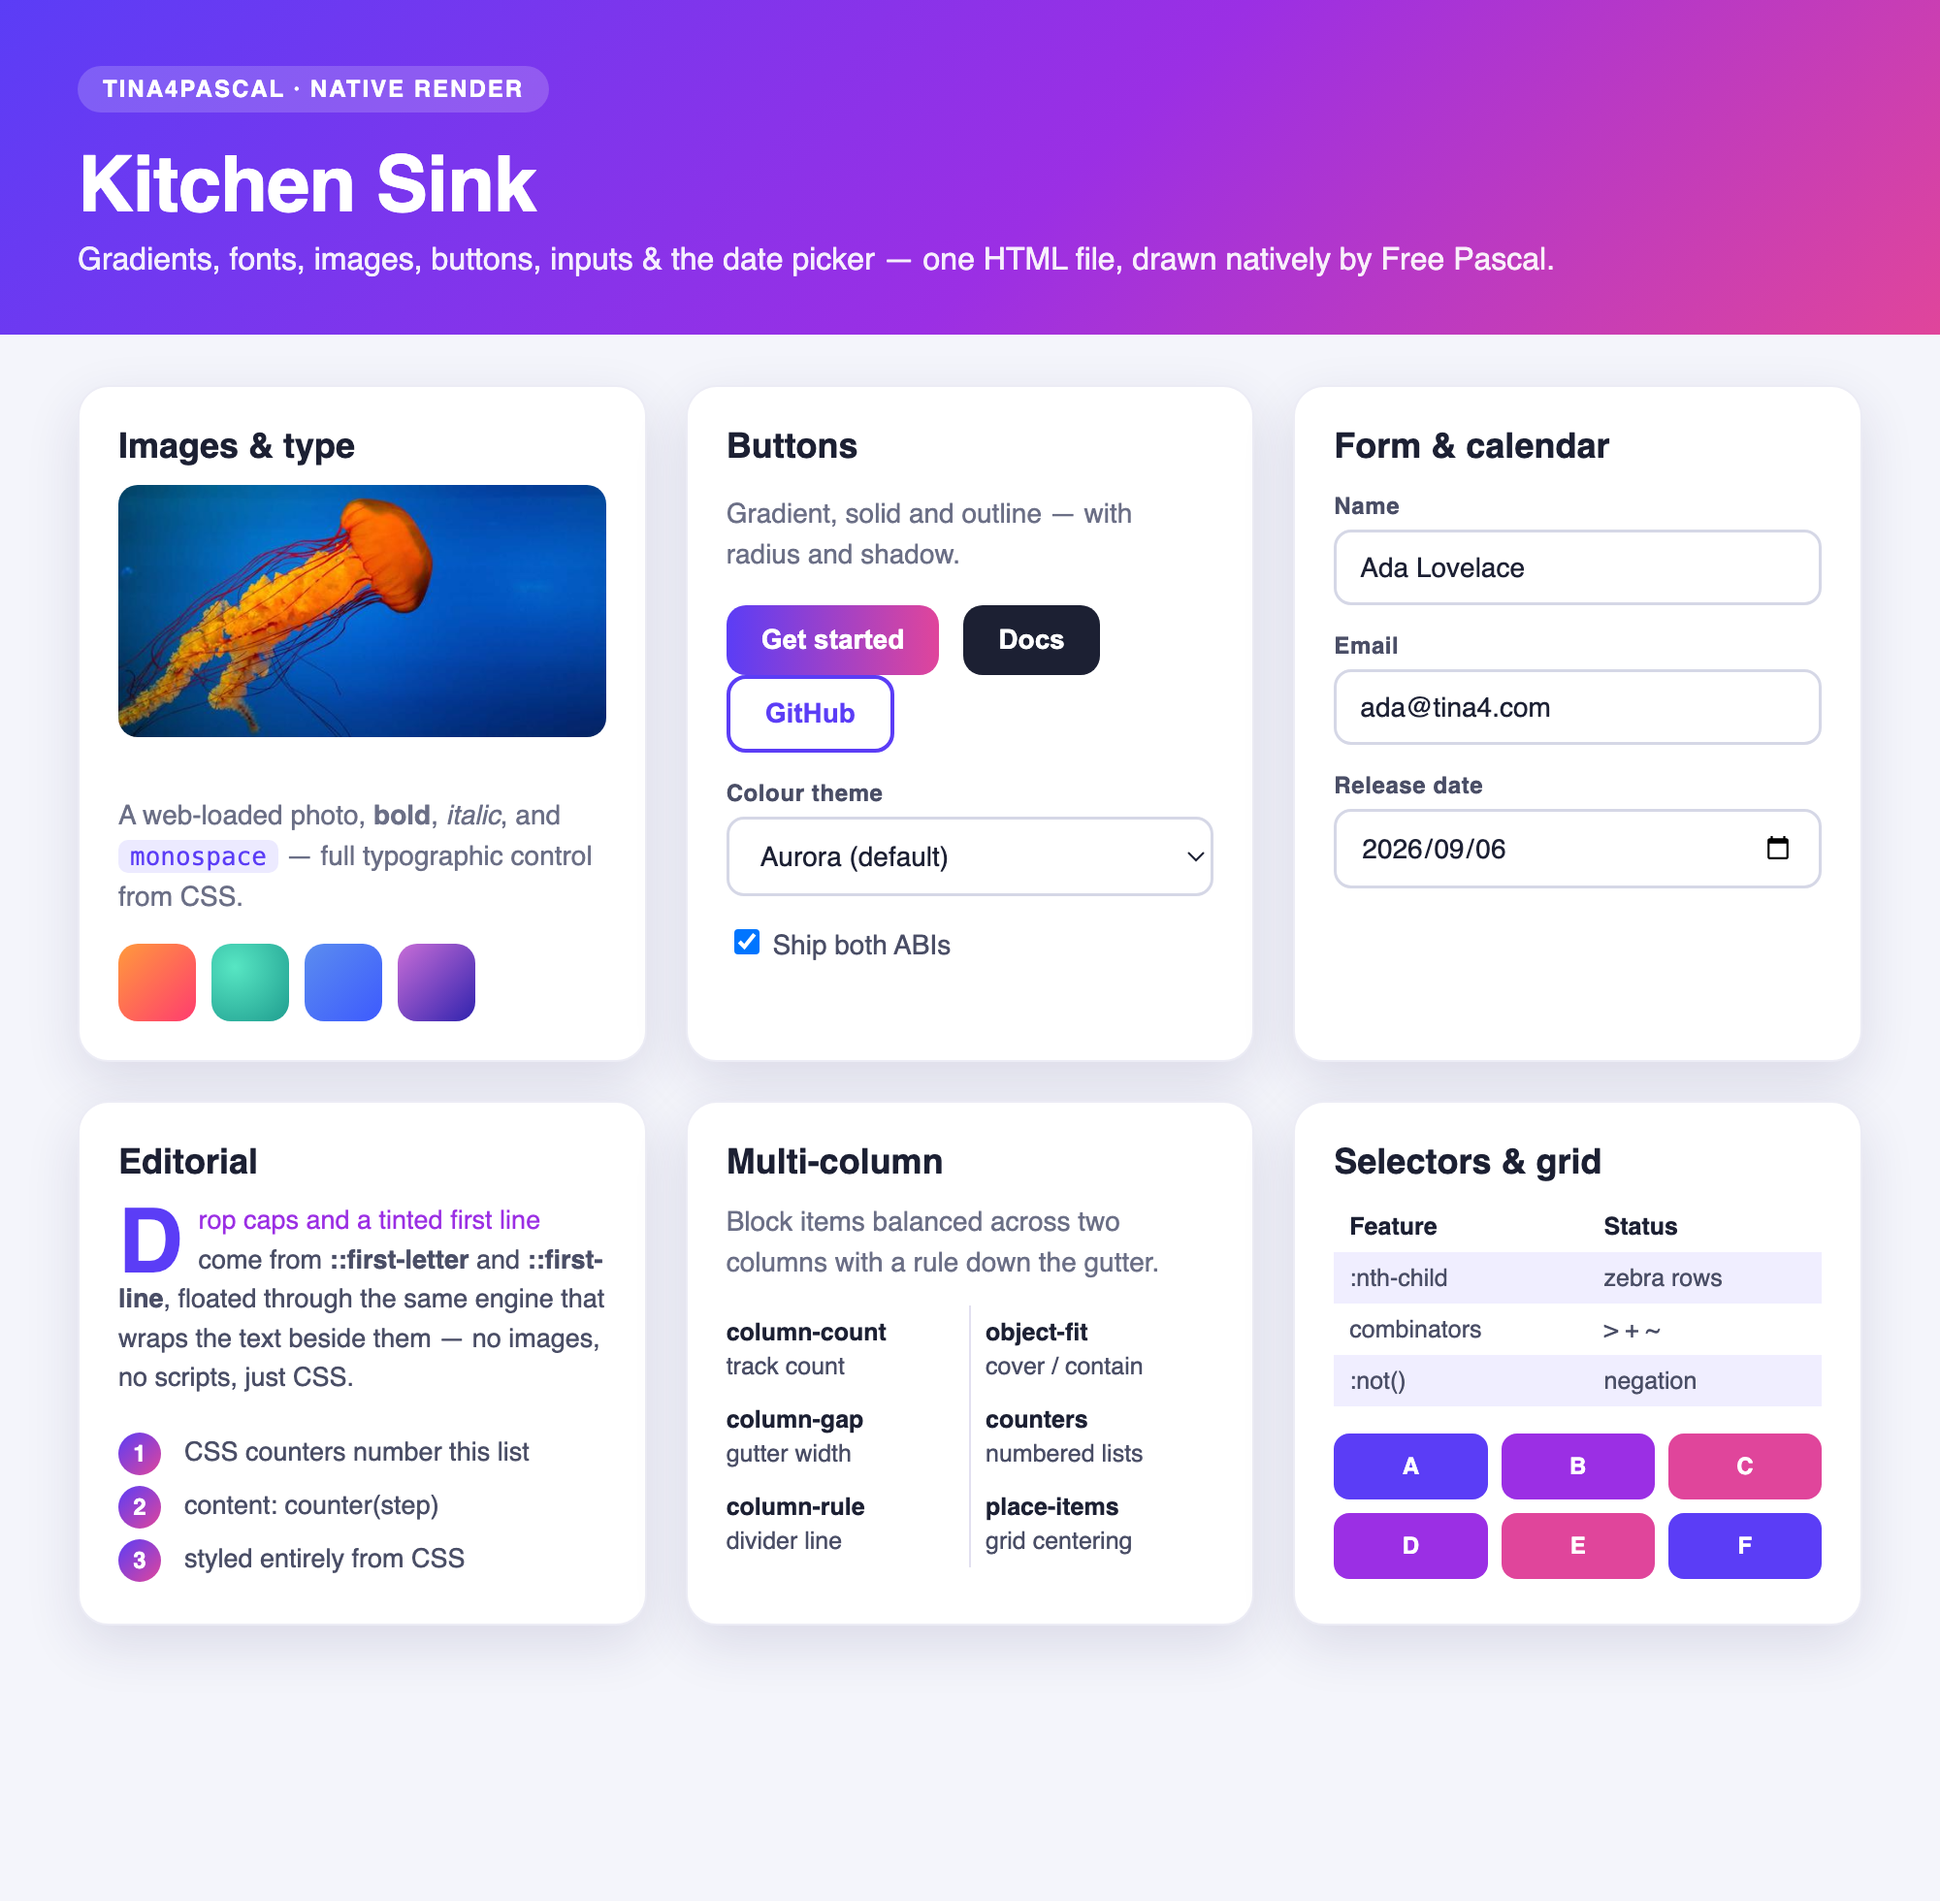
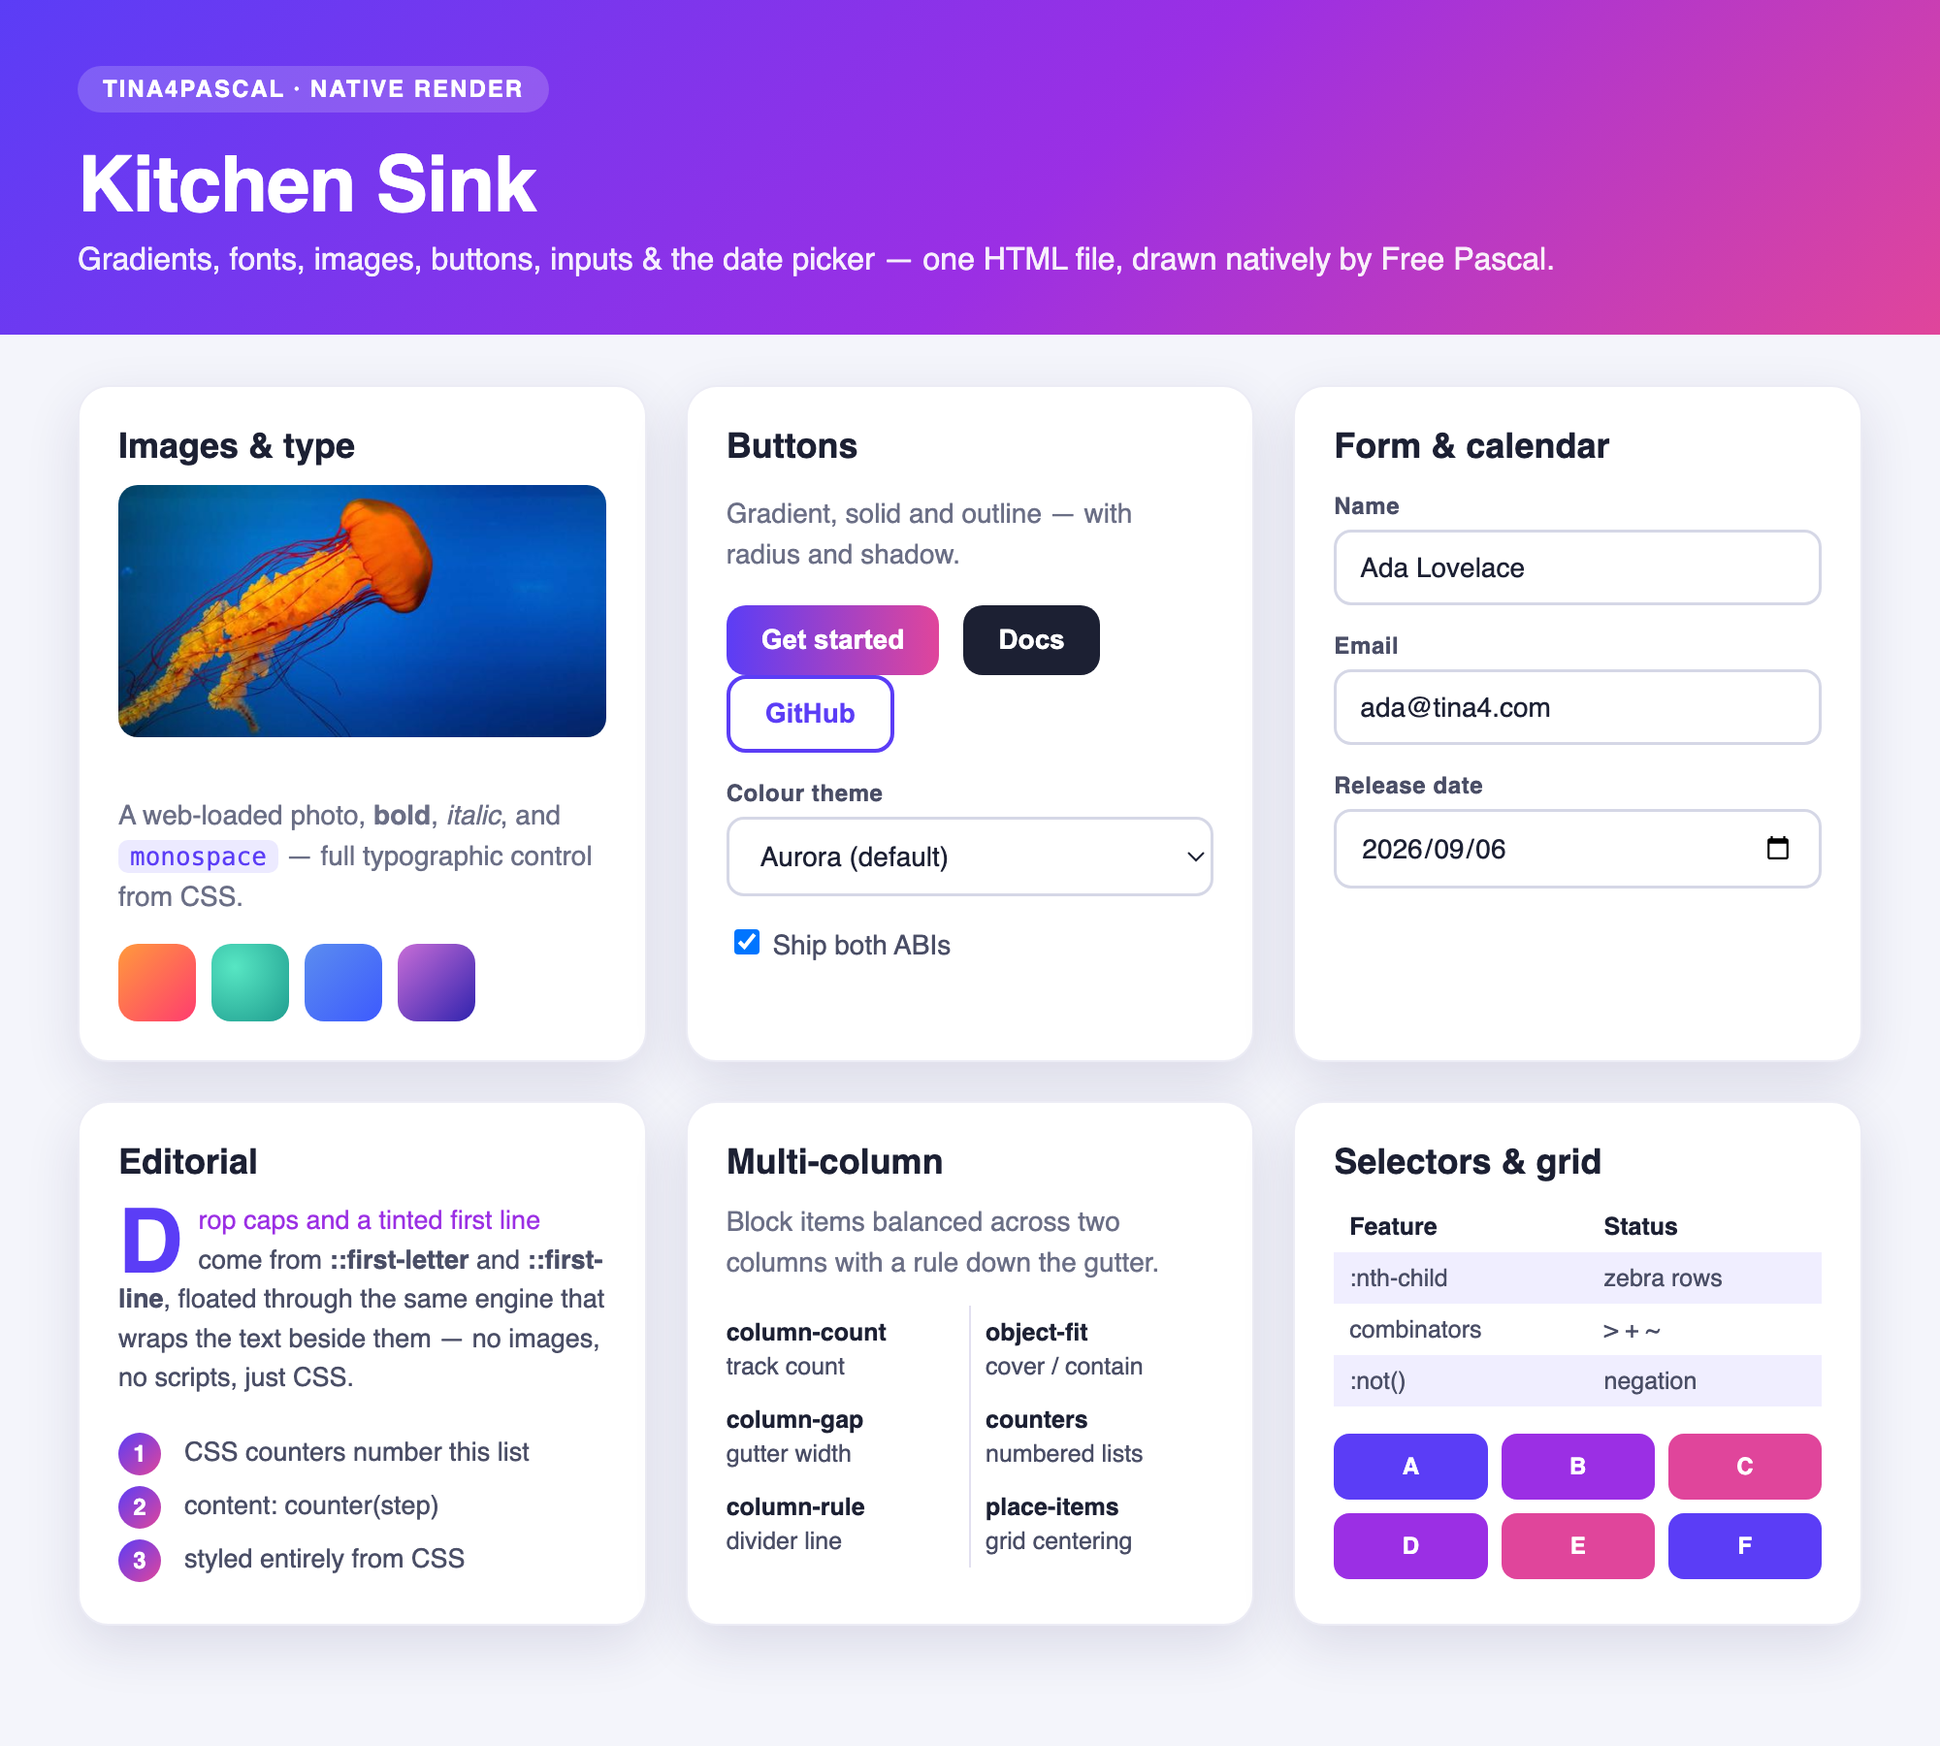
docs: load a web font in the comparison so it's apples-to-apples
The page asked for "Segoe UI" (a Windows font); macOS Chrome and the Cocoa
renderer each fell back to a different substitute, so metrics — and the grid's
small bold captions — diverged. It now loads Inter + Space Mono from Google
Fonts, which both download identically, so the type is the same on both sides.
Combined with the line-height fix the hero heights now match. Re-rendered the
A/B images.

diff --git a/examples/pages/kitchen-sink.html b/examples/pages/kitchen-sink.html
@@ -2,9 +2,10 @@
 <html>
 <head>
 <meta charset="utf-8">
+<link href="https://fonts.googleapis.com/css2?family=Inter:wght@400;500;600;700;800&family=Space+Mono:wght@400;700&display=swap" rel="stylesheet">
 <style>
   * { box-sizing: border-box; }
-  body { margin: 0; font-family: "Segoe UI", Helvetica, Arial, sans-serif; color: #1c2033; background: #f4f5fb; }
+  body { margin: 0; font-family: "Inter", sans-serif; color: #1c2033; background: #f4f5fb; }
   .hero {
     padding: 34px 40px 30px;
     background: linear-gradient(135deg, #5b3df6 0%, #9b2fe4 55%, #e0459b 100%);
@@ -36,7 +37,7 @@
     font-size: 14px; font-family: inherit; background: #fff; color: #1c2033;
   }
   .check { margin-top: 14px; font-size: 14px; color: #4a4e66; }
-  .mono { font-family: "Consolas", monospace; background: #eceaff; color: #5b3df6; padding: 1px 6px; border-radius: 5px; font-size: 13px; }
+  .mono { font-family: "Space Mono", monospace; background: #eceaff; color: #5b3df6; padding: 1px 6px; border-radius: 5px; font-size: 13px; }
   .swatches { display: flex; gap: 8px; margin-top: 12px; }
   .sw { width: 40px; height: 40px; border-radius: 10px; }
   .s1 { background: linear-gradient(135deg,#ff9a3c,#ff3c6f); }
